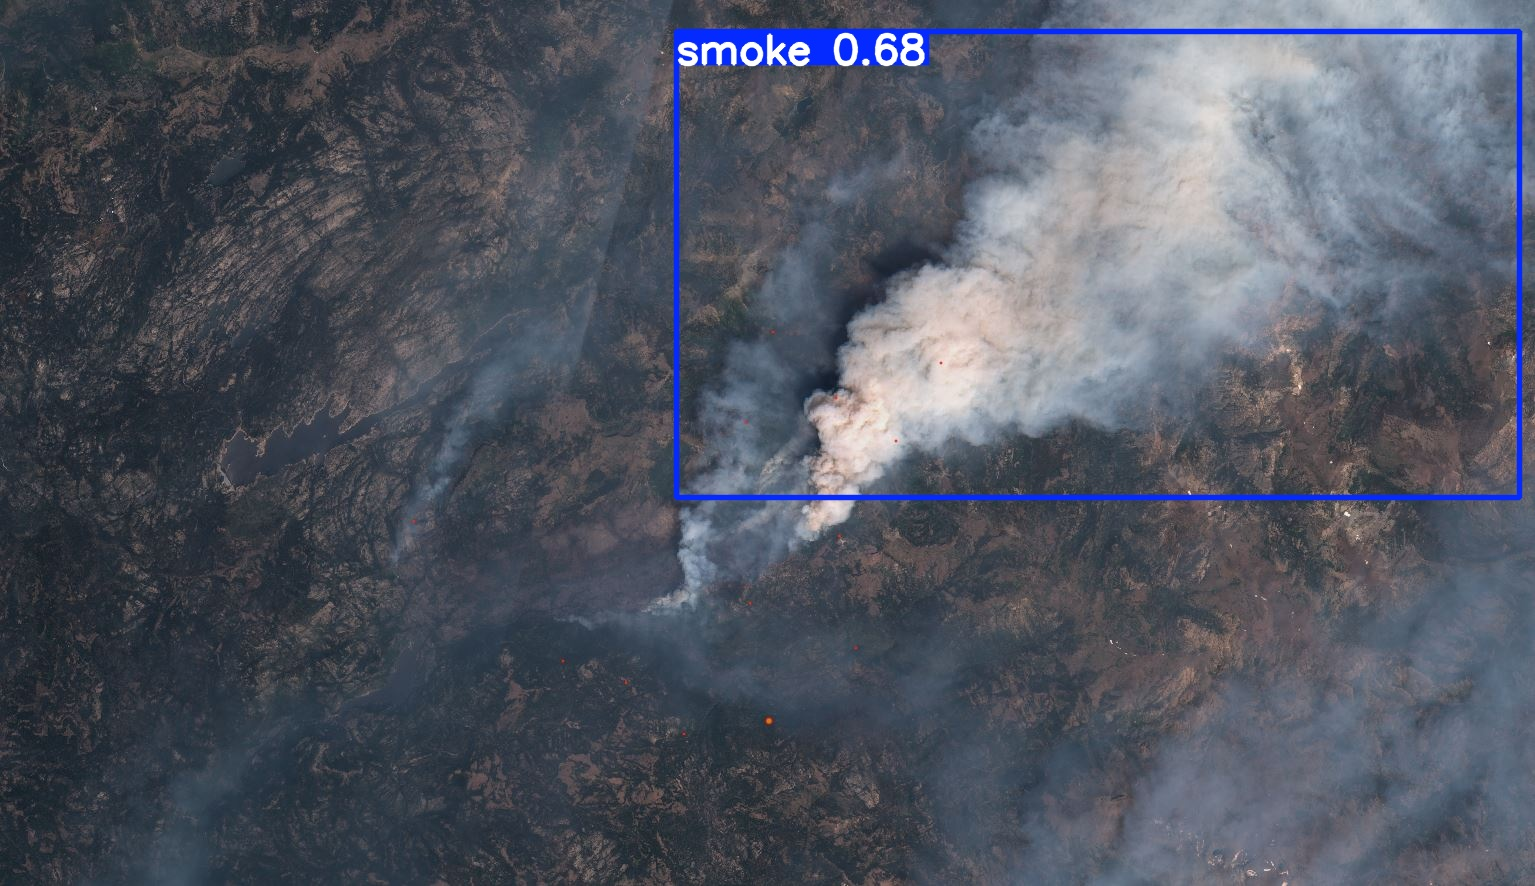
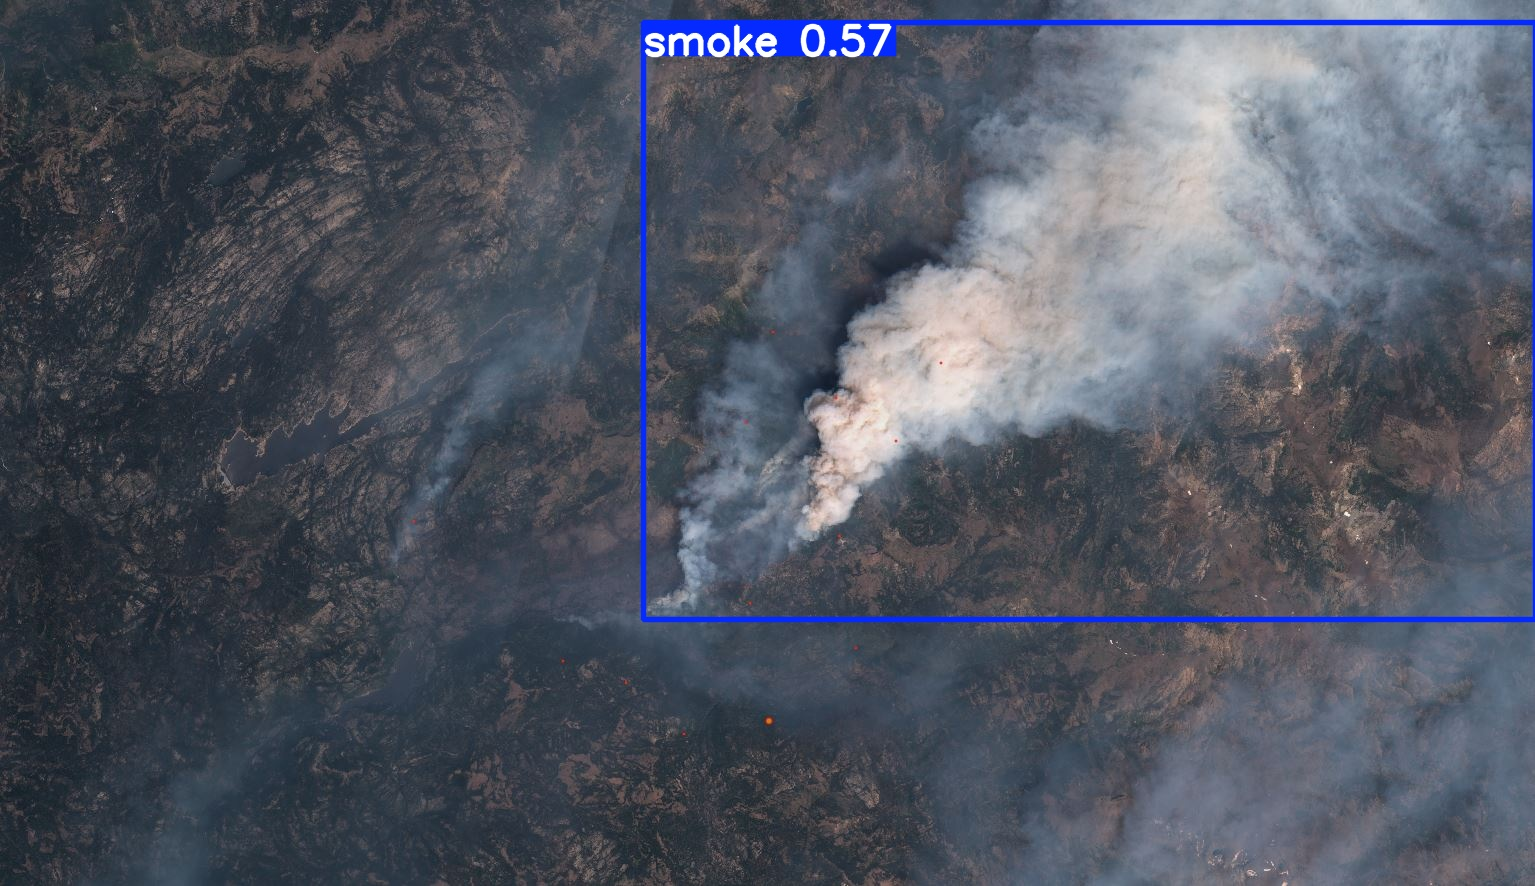
inference test

Changed region(s): [[0.398, 0.0, 1.0, 0.7009]]

diff --git a/yolo_model/config/yolo_config.py b/yolo_model/config/yolo_config.py
@@ -28,8 +28,8 @@ VAL_IMG_DIR = os.path.join(DATASET_PATH, 'images/val')
 TEST_IMG_DIR = os.path.join(DATASET_PATH, 'images/test')
 
 # Inference
-INFERENCE_CONF = 0.5  # Confidence threshold for predictions
-INFERENCE_IOU = 0.45  # NMS IOU threshold
+INFERENCE_CONF = 0.25  # Confidence threshold for predictions
+INFERENCE_IOU = 0  # NMS IOU threshold
 
 # Visualization
 SAVE_PREDICTIONS = True
